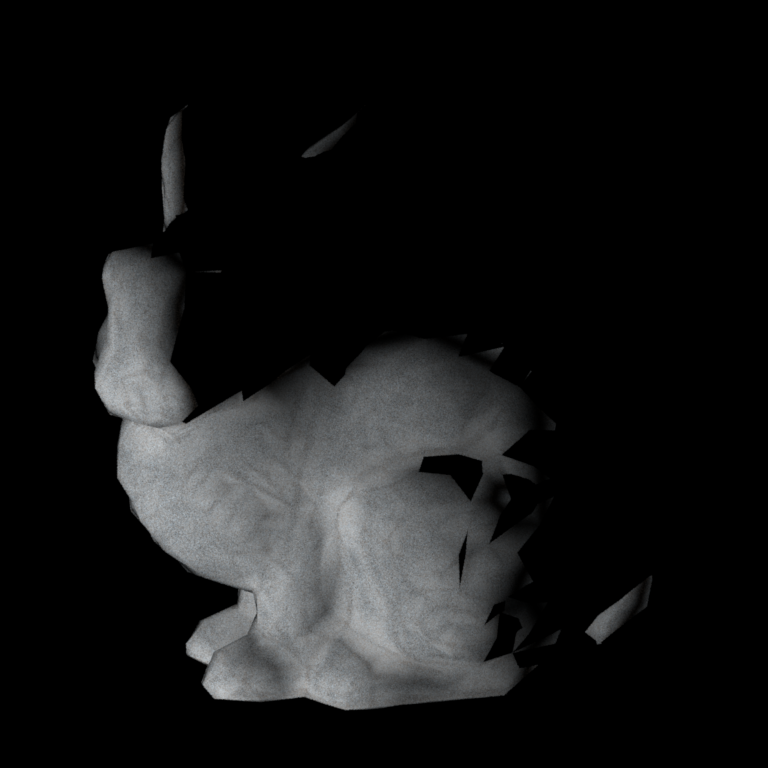
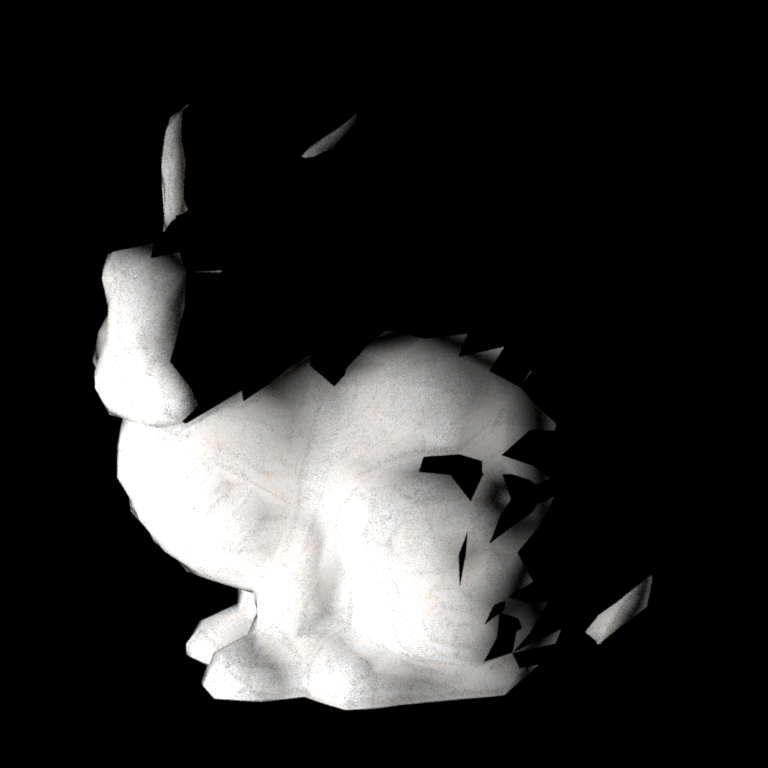
Fixed all subsurface problems and integrators

Changed region(s): [[0.125, 0.125, 0.875, 0.9375], [0.375, 0.1562, 0.4688, 0.2188]]

diff --git a/src/path_ems.cpp b/src/path_ems.cpp
@@ -23,7 +23,12 @@ public:
                 PathState &state) const
     {   
         // Sample the contribution of a random emitter
+        const BSDF *bsdf = state.intersection.mesh->getBSDF();
+
         BSDFQueryRecord query = Pth::initBSDFQuery(scene, state);
+        Color3f fp = bsdf->samplePoint(query, sampler);
+        state.scatteringFactor *= fp;
+
         Color3f directLight = Pth::nextEventEstimation(scene, sampler, state, query);
         state.radiance += state.scatteringFactor * directLight * 0.5f;
 
@@ -34,7 +39,6 @@ public:
 
 
         Point3f surfaceP = state.intersection.p;
-        
         state.intersected = scene->rayIntersect(state.ray, state.intersection);
         state.intersectionComputed = true;
 
@@ -55,10 +59,14 @@ public:
                 PathState &state) const
     {
         // Sample the specular BSDF
+        const BSDF *bsdf = state.intersection.mesh->getBSDF();
+        
+        auto query = Pth::initBSDFQuery(scene, state);
+        Color3f fp = bsdf->samplePoint(query, sampler);
+
         float bsdfPdf;
-        BSDFQueryRecord query = Pth::initBSDFQuery(scene, state);
-        Color3f f = Pth::sampleBSDF(state, sampler, query, bsdfPdf); 
-        state.scatteringFactor *= f;    
+        Color3f f = Pth::sampleBSDF(state, sampler, query, bsdfPdf);   
+        state.scatteringFactor *= (f * fp);
     }
 
     void integrateEmitter(const Scene *scene, 
@@ -86,6 +94,9 @@ public:
                 integrateEmitter(scene, sampler, state);
                 break;
             case Pth::DIFFUSE:
+                integrateDiffuse(scene, sampler, state);
+                break;
+            case Pth::SUBSURFACE:
                 integrateDiffuse(scene, sampler, state);
                 break;
             case Pth::SPECULAR:

diff --git a/src/path_mis.cpp b/src/path_mis.cpp
@@ -31,20 +31,14 @@ public:
         
         auto query = Pth::initBSDFQuery(scene, state);
         Color3f fp = bsdf->samplePoint(query, sampler);
-
-        if (fp == Color3f(0.0f))
-            return;
-
         state.scatteringFactor *= fp;
-
 
         /**************** Compute next event estimation ******************/
         float lightPdf, bsdfPdf;
         Color3f directLight = Pth::nextEventEstimation(scene, sampler, state, query, lightPdf, bsdfPdf);
         float weightLight = Math::powerHeuristic(1, lightPdf, 1, bsdfPdf);
-        state.radiance += state.scatteringFactor * directLight; // * weightLight;
+        state.radiance += state.scatteringFactor * directLight * weightLight;
 
-        return;
 
         /************************* Sample indirect light *******************/
         Color3f f = Pth::sampleBSDF(state, sampler, query, bsdfPdf);   
@@ -79,17 +73,13 @@ public:
                 PathState &state) const
     {
         // Sample the specular BSDF
-        // Sample the BSDF
         const BSDF *bsdf = state.intersection.mesh->getBSDF();
         
         auto query = Pth::initBSDFQuery(scene, state);
         Color3f fp = bsdf->samplePoint(query, sampler);
 
-        if (fp == Color3f(0.0f))
-            return;
-
-        float pdf;
-        Color3f f = Pth::sampleBSDF(state, sampler, query, pdf);
+        float bsdfPdf;
+        Color3f f = Pth::sampleBSDF(state, sampler, query, bsdfPdf);   
         state.scatteringFactor *= (f * fp);
     }
 

diff --git a/src/subsurface.cpp b/src/subsurface.cpp
@@ -229,10 +229,12 @@ public:
 
         // Select sphere radius
         float rMax = sampleSr(0.999f, channel);
-        float r = sampleSr(sampler->next1D(), channel);
 
-        if (r > rMax)
-            return Color3f(0.0f);
+        float r;
+        do {
+            r = sampleSr(sampler->next1D(), channel);
+        }
+        while (r > rMax);
 
         // Sample a point on the disk
         float l = 2.0f * Math::sqrt(Math::pow2(rMax) - Math::pow2(r));
@@ -254,7 +256,9 @@ public:
 
         if (!intersected)
         {
-            return Color3f(0.0f);
+            // This is inefficient, 
+            //  but it should not happen frequently 
+            return samplePoint(bRec, sampler);
         }
 
         bRec.fro = its.shFrame;
@@ -304,7 +308,7 @@ public:
         bRec.wo = Warp::squareToCosineHemisphere(sampler->next2D());
         pdf = Warp::squareToCosineHemispherePdf(bRec.wo);
 
-        return Frame::cosTheta(bRec.wo) / pdf;
+        return eval(bRec) * Frame::cosTheta(bRec.wo) / pdf;
     }
 
     bool isSubsurfaceScattering() const {

diff --git a/src/path_mats.cpp b/src/path_mats.cpp
@@ -27,9 +27,6 @@ public:
         auto query = Pth::initBSDFQuery(scene, state);
         Color3f fp = bsdf->samplePoint(query, sampler);
 
-        if (fp == Color3f(0.0f))
-            return;
-
         float bsdfPdf;
         Color3f f = Pth::sampleBSDF(state, sampler, query, bsdfPdf);   
         state.scatteringFactor *= (f * fp);
@@ -44,9 +41,6 @@ public:
         
         auto query = Pth::initBSDFQuery(scene, state);
         Color3f fp = bsdf->samplePoint(query, sampler);
-
-        if (fp == Color3f(0.0f))
-            return;
 
         float bsdfPdf;
         Color3f f = Pth::sampleBSDF(state, sampler, query, bsdfPdf);   

diff --git a/src/whitted.cpp b/src/whitted.cpp
@@ -91,9 +91,6 @@ public:
             auto query = Pth::initBSDFQuery(scene, state);
             Color3f fp = bsdf->samplePoint(query, sampler);
 
-            if (fp == Color3f(0.0f))
-                continue;
-
             radiance += fp * Pth::nextEventEstimation(scene, sampler, state, query);
         }
 
@@ -129,7 +126,7 @@ public:
                 break;
 
             case Pth::SUBSURFACE:
-                radiance = integrateSubsurface(scene, sampler, ray, its);
+                radiance = integrateDiffuse(scene, sampler, ray, its);
                 break;
 
             case Pth::SPECULAR:
